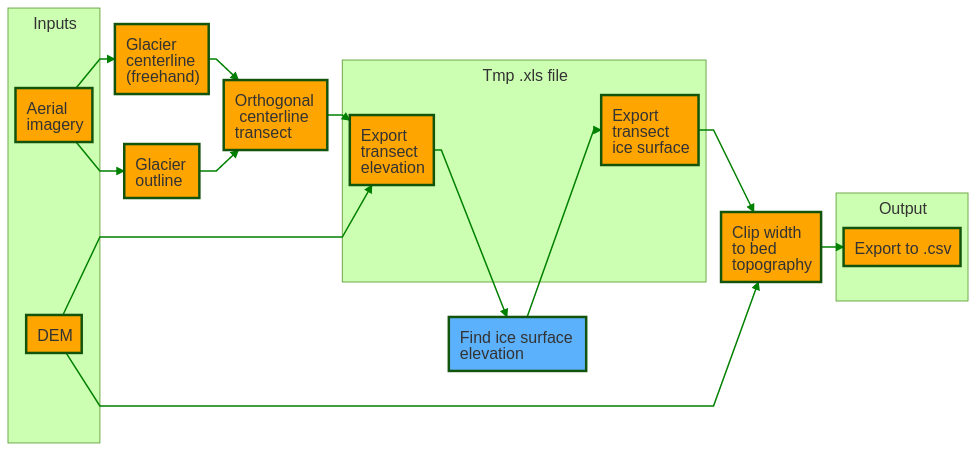
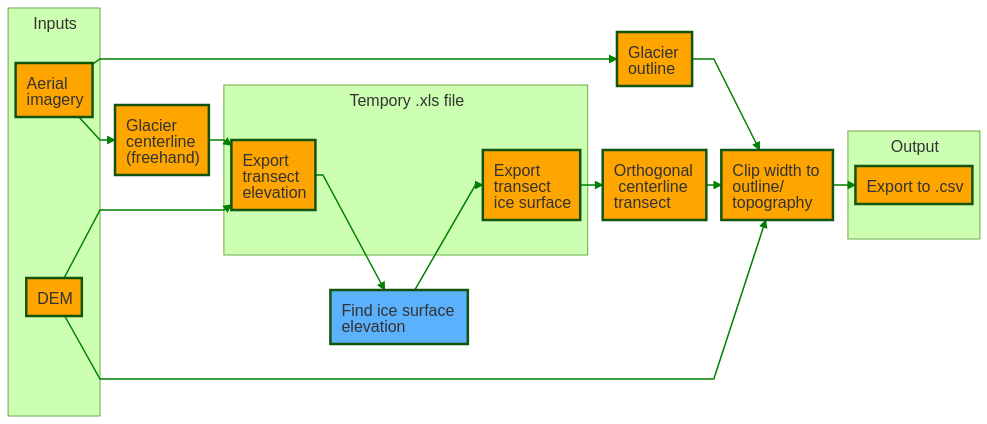
Revised draft of MethodsX manuscript

diff --git a/Docs/Methods.md b/Docs/Methods.md
@@ -9,22 +9,13 @@ md_extensions: +grid_tables +table_captions
 
 ## Abstract
 
-Glaciers are widely used in paleoclimatic reconstructions, with their unique combination of large spatial footprint, direct response to climate, and near-global extent making them indispensable tools.[^motive1]
-Although increasing computing power enables highly complex transient glacier modeling, the lack of detailed climatic data in the past typically requires paleoclimate studies to focus on computationally simple methods[^motive2] of reconstruction, frequently based on changes in a glacier’s geomorphic extent.[^motive3]
-The equilibrium line altitude (ELA) of a glacier, as a direct measure of annual glacier mass balance, facilitates direct comparisons of climate by avoiding strong dependencies on glacier dynamics and by integrating the myriad variables that can drive changes in climate into a single metric.
-
-[^motive1]: first sentence reads a bit complicated, I also would suggest to add urgent need to understand glacier response to ongoing climate as glaciers are key to hydrology etc...and I am not quite sure I know the difference between 'large spatial footprint' and 'near-global extent'. may be just say 'Due to xyc, glaciers have been widely used in paleoclimatic reconstructions.
-
-[^motive2]: that's one way to look at it. From the data side, we simply have glacier record all over the planet, but all are point-measurements, and we need fast, versatile and flexible simple models to upscale and compare. Isn't that a gap you fill with this?
-
-[^motive3]: Seems like there needs to be a transition here relating ELAs first to geomorphic extent, then to mass balance and climate.
-
-Here we detail an ELA model that retains the simplicity of many other paleo-glacier reconstructions, but further incorporates physically-based assumptions that relate this estimate more directly and generally to glacier mass balance than statistical approaches[^abstract1].
-The model is largely derived from a simple linear glacier-length model presented in [@oerlemans_minimal_2008], with modifications specific to quantifying ELAs and ELA changes.
-We provide MATLAB functions and scripts of this model to provide a user-friendly and generally-applicable method to estimate glacier ELAs from easily-measured morphology parameters, with a particular emphasis on paleo-glacier reconstructions.
-As a test of the model’s efficacy, we compare the model results for present-day glaciers in the Swiss Alps with previously published estimates of ELAs and intermediate model outputs.
-
-[^abstract1]: which 'statistical approaches'? Not sure I understand this statement. Could you just say '...that relate the ELA estimate directly to glacier mass balance.'??
+Alpine glaciers, with their valuable combination of drastic response to climate and near-global extent, are powerful tools for investigating previous and present climate changes.
+These glaciers also represent critical water resources for areas around the globe and have the potential for far-reaching effects in a warming world.
+Advancements to better understand and model glacial changes and the variables influencing them are therefore paramount.
+Many glacier models fall into one of two endmembers; either highly complex transient models requiring careful tuning of multiple parameters to individual glaciers, or basic empirical correlations of glacier area and length with few considerations for local and regional variations in glacier characteristics.
+Here we detail a physically-based steady-state model for alpine glaciers relating directly to glacier mass balance (via the equilibrium line altitude) while retaining the simplicity of other morphology methods, and simultaneously including error estimates.
+We provide MATLAB functions and scripts of this model to provide a user-friendly and generally-applicable method to estimate glacier equilibrium line altitudes from only a limited humber of glacier bed topography and glacier width measurements.
+As a test of the model’s efficacy, we compare the model results for present-day glaciers in the Swiss Alps with previously published estimates of equilibrium line altitudes and intermediate model outputs.
 
 ## Graphical abstract
 
@@ -32,22 +23,29 @@ As a test of the model’s efficacy, we compare the model results for present-da
 
 ## Methodological principles
 
+Changes in a glacier's size and extent are fundamentally related to the mass balance of the glacier.
+An annual mass surplus (when net accumulation exceeds ablation) leads to glacier growth, while a deficit leads to glacial retreat.
+Such transitions can be visually drastic, with some glaciers changing by kilometers in response to minor perturbations in climate.
+Comparisons of changes in glacier length or area can give a rough qualitative sense of the relative magnitude of climate change, but are inadequate for truly quantitative analyses.
+Such factors are not only affected by changes in glacier mass balance, but also by internal dynamics, the geographic setting of the glacier, and similar variables.
+A more direct measure of climate than glacier area or length changes is the concept of the equilibrium line altitude (ELA).
+The ELA is the boundary between the accumulation and ablation zones on a glacier and represents the elevation at which the annual amount of mass added through accumulation exactly equals the annual amount of mass lost through ablation [@cuffey_physics_2010].
+As a direct measure of annual glacier mass balance, the ELA facilitates explicit comparisons of climate in space and time by avoiding strong dependencies on glacier dynamics and by integrating the myriad variables that can drive changes in climate into a single metric.
+
 This research presents a method to reconstruct ELA estimates based largely on physical relationships, while only requiring estimates of bed topography, glacier length, and glacier width.
-This necessarily requires numerous simplifying assumptions, which ignore some details pertinent to individual glaciers.[^confused1]
+The ELA model also generates intermediate results of continuous modeled bed topography, ice surface elevation, and glacier width along the length of the glacier.
+An added strength of this model is such intermediate outputs allow for increased diagnostics on model performance or troubleshooting.
+This ELA model is similar in simplicity to field-based, geomorphic methods such as the toe-to-head area ratio (THAR) or accumulation area ratio (AAR) [@benn_mass_2000], but more physically-based rather than relying purely on empirical correlations.
+This method can equally apply to existing glaciers or paleo-glacier extents where glacial moraines are adequately preserved.
+The model is largely derived from a simple linear glacier-length model presented in [@oerlemans_minimal_2008], with modifications specific to quantifying ELAs and ELA changes.
+The limited model inputs necessarily require simplifying assumptions that ignore selected details pertinent to individual glaciers.
 Such details can be significant for some applications (e.g. dynamic modeling of glacier response, higher order surface energy and mass balance modeling, etc.), and other methods would be better suited to these circumstances.
 The proposed model is specifically intended to estimate the ELA of snow-fed, clean ice, temperate glaciers with relatively simple bed and areal geometries.
-This ELA model is similar in simplicity to field-based, geomorphic methods such as the toe-to-head area ratio (THAR) or accumulation area ratio (AAR) [@benn_mass_2000], but more physically-based rather than relying purely on empirical correlations.
 
-[^confused1]: '...ignore selected details...', as you decided which one can be ignored here.
-
-The ELA model also provides analytical constraints on the error associated with model outputs.[^errors1]
-Such uncertainties help determine the significance and reliability of results, and are unfortunately not always adequately accounted for in paleoclimate research [@tarasov_data-calibrated_2012]. [^errors2]
+The ELA model also provides analytical constraints on the error associated with model outputs.
+Such uncertainties are fundamental in determining the significance and reliability of results, but rigorous physical uncertainties of ELA estimates are rarely presented in paleo-glacier research, either because such uncertainties are difficult to assign for geomorphic methods like THAR and AAR or because higher order models are sufficiently complex to challenge error propagation.
 Uncertainty estimates in this study are calculated based on Monte Carlo simulations of bootstrapped residuals of the input parameters.
 These uncertainties give insight into the range of plausible ELA values based on both uncertainty of input parameters and the ability of the model assumptions to accurately represent those inputs.
-
-[^errors1]: This is key! Could you add '..physical uncertainties...' somewhere??
-
-[^errors2]: '...are fundamental..., but rigorous phyiscal uncertainties of ELA estimates are rarely presented in paleo-glacier research, because.....', some statement that 'physical uncertainties' are very hard to assign for THAR and AAR based ELAs and some of the applied models are of higher order, making error propagation complex...or something like that. Also, careful, as for example Andrew Macintosh's group gives 'physical errors', so does the U Maine group, but those are exceptions... so should we mention this somehow? 
 
 ### Balance equation
 
@@ -72,8 +70,8 @@ Methods for the estimation of each of these components are detailed below.
 
 ### Glacier bed modeling
 
-Bed topography measurements should follow a representative 1D line along the glacier profile, typically taken down the center of the glacier.
-We then estimate $z(x)$ from a best-fit two-term exponential curve of this 1D profile line (\ref{eq:bed} 3), where $a$, $b$, $c$, and $d$ are fitting coefficients optimized in the model using the elevation data inputs (see Figure 2 for examples).
+Bed topography measurements follow a representative 1D line along the glacier profile taken down the center of the glacier.
+We then estimate $z(x)$ from a best-fit two-term exponential curve of this 1D profile line (Equation \ref{eq:bed}), where $a$, $b$, $c$, and $d$ are fitting coefficients optimized in the model using the elevation data inputs (see Figure 3 for examples).
 Optimizations in this ELA model use nonlinear least squares regression based on *trust region* algorithms [@more_computing_1983].
 
 \begin{equation}
@@ -104,19 +102,17 @@ H_m = \frac{2}{3} \sqrt{\frac{\tau L}{\rho g \left( 1+\sin\theta \right)}}
 \end{equation}
 
 Equation \ref{eq:ice-thick}, however, gives the mean ice thickness ($H_m$) for the glacier, rather than continuous values along its length.
-To model ice thickness profiles, we assume a parabolic distribution (true of a perfectly plastic glacier on a flat bed) around the mean ice thickness (see Figure 3 for examples).
+To model ice thickness profiles, we assume a parabolic distribution (true of a perfectly plastic glacier on a flat bed) around the mean ice thickness (see Figure 4 for examples).
 The basal shear stress ($\tau$) is assumed to scale with ice thickness, following the relationship presented in [@haeberli_application_1995] (Equation \ref{eq:tau}), where $\Delta z$ is the difference between the minimum and maximum bed elevation.
 
-$$
-\Delta z > 1600 \:m \Longrightarrow \tau = 150 \:kPa
-$$
 \begin{equation}
 \label{eq:tau}
-500 \:m \le \Delta z \le 1600 \:m \Longrightarrow \tau = 0.005 + 1.598\Delta z - 0.435\Delta z^2 \:kPa
-\end{equation}
-$$
+\begin{split}
+\Delta z > 1600 \:m \Longrightarrow \tau = 150 \:kPa \\
+500 \:m \le \Delta z \le 1600 \:m \Longrightarrow \tau = 0.005 + 1.598\Delta z - 0.435\Delta z^2 \:kPa \\
 \Delta z < 500 \:m \Longrightarrow \tau = 3\Delta z \:kPa
-$$
+\end{split}
+\end{equation}
 
 ### Glacier width modeling
 
@@ -131,7 +127,7 @@ w(x) = w_0 + \frac{w_{max}-w_0}{L_{Wmax}}xe^{1-\frac{x}{L_{Wmax}}}
 \end{equation}
 
 This produces an exponential curve, following the general shape of many glaciers.
-The model then performs least squares nonlinear curve fitting (again based on trust region techniques) on the initial parameter estimates to optimize the fit to the input width estimates (see Figure 4 for examples).
+The model then performs least squares nonlinear curve fitting (again based on trust region techniques) on the initial parameter estimates to optimize the fit to the input width estimates (see Figure 5 for examples).
 
 The model can also incorporate glacier tributaries.
 The tributaries are intially modeled as independent glaciers, including profile centerline elevations and width measurements.
@@ -152,9 +148,9 @@ The complete ELA model MATLAB code is publicly available [(https://github.com/du
 Detailed documentation on using the ELA model can also be found in the GitHub repository, as well as an example script demonstrating the model on four glacier test sites (see the Model Validation section for details).
 In brief, the ELA model function `ELA_calc.m` requires two dataset inputs (discrete estimates of bed topography and discrete estimates of glacier width, both measured downglacier along the centerline of the glacier valley) and the number of Monte Carlo simulations to perform.
 Approximately ten quasi-equally spaced points along the length of the glacier are often sufficient, though the optimum number depends on the length and complexity of the bed topography and glacier geometry.
-To avoid issues of model extrapolation, both the toe and the head of the glacier should be included in these measurements.
+To avoid issues of model extrapolation (and to automatically include the overall glacier length), both the toe and the head of the glacier should be included in these measurements.
 The ELA model input data should be provided as a MATLAB structure with four fields, as summarized in Table 1.
-The `format_inputs.m` function takes .csv files of glacier bed topography and glacier width measurements and creates a properly-formatted MATLAT structure to serve as input to the ELA model.
+The `format_inputs.m` function takes .csv files of glacier bed topography and glacier width measurements and creates a properly-formatted MATLAB structure to serve as input to the ELA model.
 
 Table: Required format for ELA model inputs
 
@@ -174,84 +170,87 @@ Table: ELA model error assumptions
 | Variable name | Default value | Variable description                                            |
 |---------------|---------------|-----------------------------------------------------------------|
 |    `zSTD`     |     $25 \:meters$      | Standard deviation in measured glacier bed elevation. |
-|    `wSTD`     |     $50 \:meters$      | Standard deviation in measured glacier width values. |
+|    `wSTD`     |     $60 \:meters$      | Standard deviation in measured glacier width values.  |
 |  `tau_STD`    | $5.0 \times 10^4 \:Pa$ | Standard deviation in estimated basal shear stress (used in ice thickness calculations). |
 |    `rho`      |     $917 \:kg/m^3$     | Density of ice (used in ice thickness calculations). |
 |     `g`       |     $9.8 \:m/s^2$      | Acceleration due to gravity (used in ice thickness calculations). |
 
 For the development and validation of this model, we used a particular ArcGIS software workflow to generate the ELA model inputs.
-We include this workflow as a diagram (Figure 1), but model inputs can be generated and provided using any desired methods, as long as they are properly formatted.
+We include this workflow as a diagram (Figure 2), but model inputs can be generated and provided using any desired methods, as long as they are properly formatted.
 
-![Flowchart showing the ArcGIS workflow used to generate ELA model inputs. *This figure is still a work in progress.*](Figures/arc-flow.png)
+![Flowchart showing the ArcGIS workflow used to generate ELA model inputs. Orange denotes steps performed in ArcMap, while blue denotes steps performed in MATLAB. The first step is to generate a characteristic centerline for the glacier. This centerline can be drawn freehand or calculated in some other way. Then extract the bed elevation along the centerline using the DEM input (recorded as distance along the centerline), and save to a temporary .xls file. Import this file into MATLAB and use the `ice_thick.m` function (part of the ELA model) to estimate the ice surface elevation at points along the centerline transect. Import the ice surface results back to ArcMap and combine with the centerline transect values. The final steps require an outline of the glacier in question. These boundaries can be drawn from the aerial imagery for modern glaciers, or else from the moraines of paleoglaciers. In the case of paleoglacier moraines, the accumulation region of the glacier can be broadly defined by the valley boundaries. Calculate polylines at each discrete point along the transect at the elevation of the ice surface and orthogonal to the centerline at that point. The intersection of these orthogonal lines (at the elevation of the ice surface at that point) with either the glacier boundaries (in the case of modern glacier outlines and portions of paleoglaciers constrained by moraines) or the bed topography (in the case of the accumulation zone of paleoglaciers) defines the glacier width at each transect point. The results of distance down the glacier centerline, estimated bed elevation, and estimated glacier widths is then saved as a .csv file for import to the ELA model.](Figures/arc-flow.png)
 
 ## Model validation
 
 We validate the ELA model by matching our reconstructions with direct observations of four modern glaciers in the European Alps.
 These glaciers were selected due to the availability of data requisite for a data-model comparison (including present-day ice thickness, bed topography beneath the present-day glacier, mass balance measurements, aerial photography and DEMs).
+These glaciers were further selected due to differences in overall shape, length, and elevation extent, thereby providing a wide range of possible glacier geometries.
+This range of glacier characteristics enables a rigorous test of robustness and general applicability of the ELA model.
 The four test glaciers are the Gries, Findel, Rhone, and Silvretta Glacier.
-These glaciers were further selected due to differences in overall shape, length, and elevation extent, thereby providing a wide range of possible glacier geometries.[^robust1]
 Three of these glaciers (Gries, Silvretta, and Findel) have continuous multi-year mass balance measurements from stake networks compiled by the World Glacier Monitoring Service (WGMS), and therefore make for the most compelling comparisons.
 The Rhone Glacier has mass balance measurements from a handful of isolated years, providing a less certain, but still useful comparison to the model and other glaciers.
 
-[^robust1]: Give the two independent reasoning for selection of these glaciers together. Then say 'These four test glaciers are...'. Also, may be highlight once that this is a rather rigorous test for the model, because the glaciers are do different. You can connect to that later and state that the agreement between ELA data and model for all the four  glaciers is a strong indication that the model is functional for this problem.
-
 ### Data sources
 
-We obtained width and overall length measurements for the 4 validation glaciers from aerial and satellite imagery.
-Although exact margins of error for these data are unavailable, we assume an error[^error1] of ±25 m[^error2], a similar resolution to satellite images from NASA’s LANDSAT 5 database.
-ASTER GDEMs, with a prescribed error of ±30 m[^error2], provided ice surface elevations, which we use in combination with measurements of bed topography to calculate ice thickness.
-Bed elevations are from modeled topographies in @farinotti_method_2009 and @farinotti_simple_2010, constrained using multiple GPR profiles and/or borehole depths for each glacier.
+We obtained width and overall length measurements for the 4 validation glaciers from LANDSAT 5 satellite imagery and ASTER GDEM elvation models.
+As the LANDSAT 5 imagery has a horizontal resolution of ±30 m, we prescribe a conservative ±60 m error for glacier width measurements (error for both edges of glacier boundaries).
+ASTER GDEM data have a vertical root-mean-squared error of ±15 to ±25 m, depending on several environmental conditions (surface covering, topography, surface roughness, etc.) [@aster_aster_2009].
+As our model exclusively involves mountainous snow-covered regions, we utilize the more conservative $\pm 25$ m error in calculations of bed topography and ice surface elevations.
+Bed elevation validation measurements are from modeled topographies in @farinotti_method_2009 and @farinotti_simple_2010, constrained using multiple GPR profiles and/or borehole depths for each glacier.
 
-[^error1]: may be strengthen this statement a bit? '..we assume an error of...' sounds kind of arbitrary given that we blow the horn about 'physical uncertainties...' above, no?
-
-[^error2]: Vertical error?
-
-[^error3]: Prescribed error in elevation?
-
-[^ELA1]The Silvretta and Gries glaciers have the best-constrained mass balances with ~50 years of published data for each [@wgms_fluctuations_2019].
-[^ELA2]In order to compare the current climatic ELA of these glaciers with our modeled ELA, we calculate the mean mass balance ELA from the linearly detrended annual ELA values from 1981-2010 for both glaciers[^ELA3], with uncertainty calculated using a 95% margin of error.
-The Findel Glacier has similarly well-constrained mass balance measurements from a glacier stake network, but with a much shorter record (2005-2010), and we use the mean ELA to estimate the climatic ELA [@wgms_fluctuations_2019].
+The Silvretta and Gries glaciers have the best-constrained mass balances with ~50 years of published data for each [@wgms_fluctuations_2019].
+In order to compare the current climatic ELA of these glaciers with our modeled ELA, we deterimine measured ELAs from the linearly detrended, annually-measured ELA values from 1981-2010 for both glaciers, with uncertainty calculated using a 95% margin of error.
+The Findel Glacier has similarly well-constrained mass balance measurements from a glacier stake network [@wgms_fluctuations_2019], but with a much shorter record (2005-2010).
+We compare the mean ELA over this time to the modeled ELA for Findel Glacier.
 The Rhone Glacier does not have consistent year-to-year mass balance measurements.
 Instead, we take modeled steady-state ELA estimates from air temperature correlations (1971-1990) provided in @zemp_distributed_2007.
-These ELA estimates are constrained with the few years of available stake mass balances (mean $r^2$ between balance ELA and air temperature-correlated ELA is 0.89).
+These ELA estimates are constrained with the few years of available stake mass balances (mean $r^2$ between measured ELA and air temperature-correlated ELA is 0.89).
 No uncertainty estimates were provided for the Rhone Glacier ELA.
 For consistency, we assume Gaussian uncertainties with bounds similar to the margins of error of the mass balances for the Silvretta, Gries, and Findel glaciers (±50 m).
-
-[^ELA1]: Why do I care about mass balance data? Have you discussed the link between mass balance and ELAs from observations yet? Just need to say ELAs can be derived from mass balance data, specifically defined as the elevation at which the mass balance equals zero.
-
-[^ELA2]: THis is where things get a little confusing. You call the measured ELAs by multiple names. You need to state that the measured ELAs were derived from mass balance data (e.g., elevation where annual mass balance equals zero). Then talk about linearly detrending, averaging, etc. And use the same terminology throughout: I suggest "modeled ELA" and "data-derived ELA".  Or "measured ELA".
-
-[^ELA3]: maybe this needs to be "In order to compare...our modeled ELAs, we calculate the data-derived ELAs by averaging the linearly detrended annual ELA values from 1981-2010..."
 
 ### Model comparisons
 
 ![Bed elevation reconstructions for the four validation sites. Yellow circles denote measured bed elevation values, black lines represent the modeled bed profile, and blue shading represents model error (±2 standard deviations).](Figures/Hypsometry.png)
 
-![Modeled glacier ice surfaces for the four validation glaciers. Yellow circles denote measured ice elevation values, black lines represent the mean modeled bed topography (Figure 1), blue lines represent the modeled ice surface profile, and blue shading represents model error (±2 standard deviations).](Figures/Ice.png)
+![Modeled glacier ice surfaces for the four validation glaciers. Yellow circles denote measured ice elevation values, black lines represent the mean modeled bed topography (Figure 3), blue lines represent the modeled ice surface profile, and blue shading represents model error (±2 standard deviations).](Figures/Ice.png)
 
 ![Glacier width modeling for the four validation sites. Compares the overall modeled areal profile (and modeled uncertainty) with discrete measured points of each glacier’s width. Yellow circles denote width measurements for points on the glacier, black lines represent the modeled width profile, and blue shading represents model error (±2 standard deviations).](Figures/Width.png)
 
-![Comparison of measured and modeled ELA values for the four validation glaciers. (Still a few details to work out for this figure...)](Figures/ELAs.png)[^consistent1]
-
-[^consistent1]: If you choose "measured" ELA, then use that throughout. Or use "data-derived" ELA. Just be consistent.
-
-The model results[^outputs1], including bed topography, ice thickness, plan-profiles, and ELAs, are summarized in Figures 2-5 for all four validation sites.
+The model results, including bed topography, ice thickness, plan-profiles, and ELAs, are summarized in Figures 3-6 for all four validation sites.
 Most of the intermediate model outputs match measured values within error.
-One added strength of this model is such intermediate outputs allow for increased diagnostics on model performance or troubleshooting.[^order1]
+Points of increased disagreement likely result mainly from local variability and the inherent smoothing caused by model fit constraints and optimzation.
+Exceptions to this include the overdeepened section apparent in the Gries Glacier (Figure 3), which represents a systemic shift in bed topography not adequately captured in the model.
+Similarly, most differences in modeled and measured ice surface (Figure 4) likely result from local variations in ice thickness of a scale finer than the input data resolution (e.g. ice crevasses), but with little effect on the final ELA estimate.
+An exception to this explanation is Findel Glacier, wherein the model appears to be systemically overestimate the ice thickness, and a corresponding overestimation of the ELA by a similar magnitude (see Figure 6).
+Although isolating an exact reason for this overestimation is challenging, it may be related to violations of the assumed perfect plasticity of the modeled ice or to ice thinning/downwasting due to climate disequilibrium, neither of which are accounted for in this ELA model.
+Modeled glacier width results generally closely match those recorded from satellite imagery (Figure 5).
+The most noticeable exception to this is the Rhone Glacier, with a few clear outliers in the accumulation area.
+These may be related to difficulties in accurately defining the glacier boundaries in the accumulation area, or else may simply represent a more complex glacier geometry that this ELA model will not fully capture.
+Regardless, these deviations do not appear to significantly affect the final ELA estimate.
 
-[^outputs1]: I am not sure you mention explicitly somewhere, what you actually model. Should do that above.
+![Comparison of measured and modeled ELA values for the four validation glaciers. Modeled and measured estimates agree within error for 3 of the 4 glaciers. The results show a mean bias in central estimates for modeled ELAs of -13.5 m relative to measured ELAs, with no consistent direction in bias. The largest difference occurs with the Gries Glacier, with a central bias in modeled ELA of -155 m relative to the measured value.](Figures/ELAs.png)
 
-[^order1]: This sentence is good, but not in the right place. You should continue to discuss where the model-data comparison matches, and -more importantly- where it does not match and why  (and why the mismatch is no drama).
-
-ELA estimates for the four validation sites and comparisons to correpsonding ELA measurements are presented in Figure 5.
-Differences in steady-state assumptions may be an important factor in differences between modeled and measured modern ELAs.
+Modeled ELA estimates for the four validation sites and comparisons to correpsonding ELA measurements are presented in Figure 6.
+Three of the four validation glaciers show agreement within error between measured and modeled ELA values, with the exception being Gries Glacier, where the modeled ELA bounds fall 2.2 m outside the measured ELA bounds.
+Likely sources of error to explain discrepancies between the results mostly involve more complex considerations not
+accounted for with the simple ELA model.
+For instance, more complex bed topographies, differences in shading/shielding by valley walls, debris cover, and accumulation through avalanching can all affect the recorded ELA in mass balance measurements, none of which are considered in the ELA model.
+It is important to note that the model is particularly sensitive to errors in bed topography, as these values influence estimates of slope, ice thickness, and width and therefore can potentially strongly affect the final ELA estimates.
+Differences in steady-state assumptions may also be an important factor in differences between modeled and measured modern ELAs.
 The ELA model assumes steady-state conditions, whereas the annual mass balance reflects emergent climate conditions.
-Glaciers typically have either an annual mass surplus or deficit in a given year, complicating comparisons of our results to mass balance ELA measurements.
+Glaciers typically have either an annual mass surplus or deficit in a given year, complicating comparisons of our results to measured ELA values.
 Such a limitation, however, is inherent to all morphology-based ELA models.
-Regardless of the source of observed deviations, the results indicate the ELA model estimates the ELA within prescribed error relative to mass balance measurements for all four validation glaciers.
-Such results lend strong support for the veracity of this ELA model for simple valley glaciers.[^conclusions]
+Regardless of the source of observed deviations, the results indicate a high degree of confidence in the model's ability to estimate glacier ELAs (within calculated uncertainties) from relatively few geomorphic inputs, lending strong support for the veracity of this ELA model for simple valley glaciers.
+This is particularly true considering the variety of bed slopes, glacier shapes, glacier widths, and elevation extents between the four validation glaciers.
 
-[^conclusions]: Durban and Summer: do you think you can elaborate a bit more here, and may be mention, where the model would be useful, may be even mention Arctic (Norway), Alps, NZ etc....? And should we consider to reconnect to the glacier chronologies and add one sentence that this model can be used to upscale from and compare robust paleo-glacier reconstructions?
+## Conclusions
+
+The model described here shows an improved ability to accurately estimate ELAs from a variety of glacier sizes, shapes, topographies, and areal distributions compared to ELA methods such as AAR and THAR, while utilizing a similarly small set of easily-obtained measurements.
+It additionally provides estimate uncertainties based on the physical uncertainties of model inputs, a crucial factor for determining the significance and importance of results.
+We successfully validate the model on a set of glaciers in the Alps spanning a variety of attributes (bed topography, size, shape, elevation extent, etc.).
+Based on these validations and the more phsyically-grounded nature of the model, this ELA model should serve as a robust, easily applicable, self-consistent method for ELA glacier reconstructions in diverse areas, including the broader European Alps, alpine regions of the Arctic, the Southern Alps in New Zealand, and similar glaciated locations.
+The model should also be readily applicable to paleoglacier reconstructions based on preserved moraine sequences, permitting rapid and consistent comparisons of glacier changes through time and across diverse regions.
+Such studies will permit enhanced insight into the mechanisms of climate change in past, and help us to better understand present and future changes to critical glacial and water resources in a warming world.
 
 \pagebreak
 

diff --git a/Docs/Figures/mermaid-figs.md b/Docs/Figures/mermaid-figs.md
@@ -27,6 +27,7 @@ graph LR
     a1 ==>|+Error| b1
     a3 ==> b1
     b1 ==>|+Error| b2
+    a3 ==> b2
     b2 ==> b3
     a2 ==>|+Error| b3
     a3 ==> b3
@@ -39,7 +40,7 @@ graph LR
 classDef default fill:#5cfcfc,stroke:#333,stroke-width:1px
 ```
 
-```
+```json
 {
   "theme": "forest",
   "flowchart": {
@@ -61,21 +62,21 @@ graph LR
     end
     A["Glacier <br>centerline <br>(freehand)"]
     B[Glacier <br>outline]
-    C[Orthogonal <br> centerline <br>transect]
     iA --> A
     iA --> B
-    A --> C
-    B --> C
+    A --> tA
     subgraph Tempory .xls file
         tA[Export <br>transect <br>elevation]
         tB[Export <br>transect <br>ice surface]
     end
-    C --> tA
     iB --> tA
     D["Find ice surface <br>elevation"]
     tA --> D
     D --> tB
-    tB --> E[Clip width <br>to bed <br>topography]
+    C[Orthogonal <br> centerline <br>transect]
+    tB --> C
+    B --> E[Clip width to <br>outline/<br>topography]
+    C --> E
     iB --> E
     subgraph Output
         oA[Export to .csv]
@@ -87,7 +88,7 @@ classDef matlab fill:#5cb1fc, stroke-width:2.5px
 class D matlab
 ```
 
-```
+```json
 {
   "theme": "forest",
   "flowchart": {
